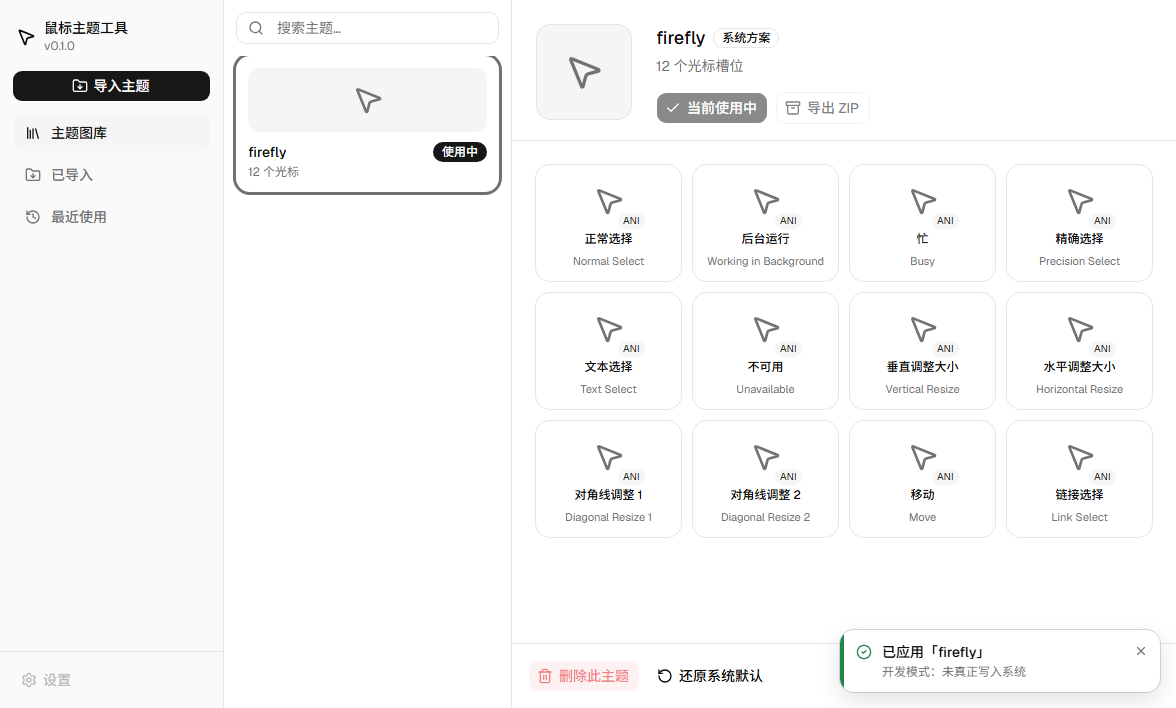
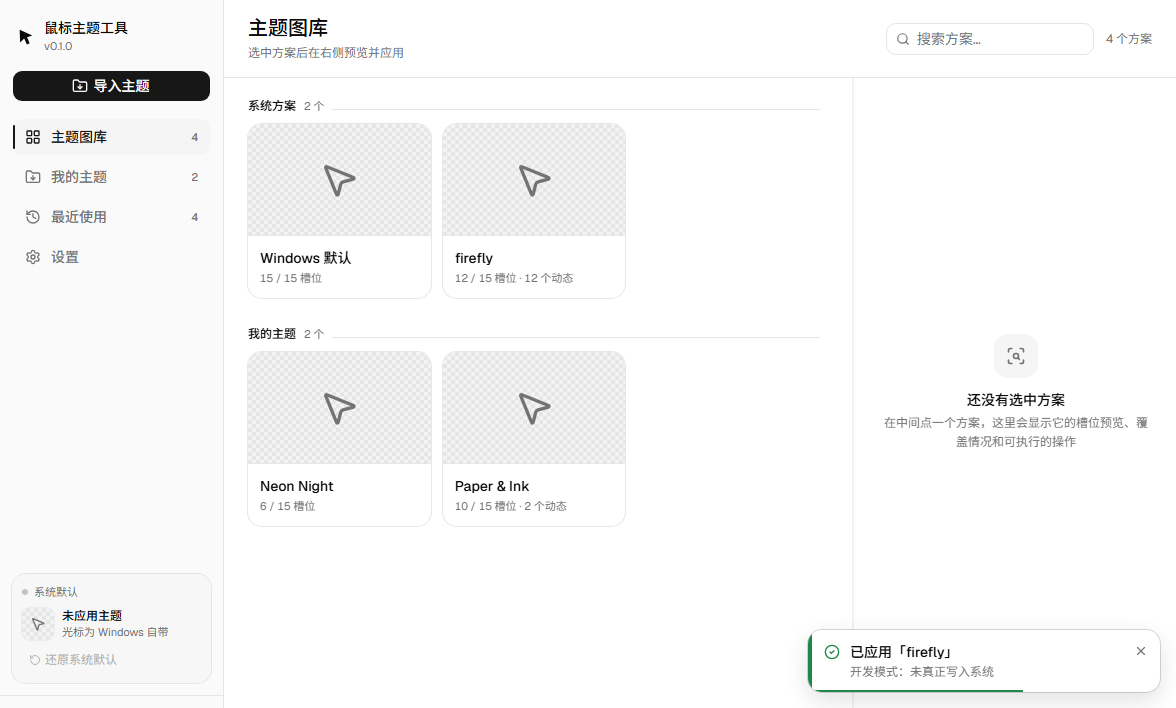
docs: 倒计时条文档同步——动效例外备案、验收计数与截图更新
- motion.md：§2 硬规则唯一例外（时长=超时属数据、缓动必须 linear）、§3 Toast 行、§5 不缩短阅读时间、§7 断言 28→33、§8 变更记录
- design-system.md：§2 动效节补例外指路，§6 变更记录 v1.9（视觉变更双登记，本次补上遗漏的一侧）
- agents.md：硬约束 10 补唯一例外，防后人把 linear 当违规改掉
- 启动与构建指南：motion_check 描述与计数同步
- 重拍 docs/screenshots/toast.png：旧图是无倒计时条的旧 Toast

diff --git a/docs/motion.md b/docs/motion.md
@@ -38,6 +38,11 @@
 
 **硬规则**：组件里只写 `duration-(--motion-*)` 和 `ease-standard` / `ease-exit`。禁止 `duration-200` 这类裸数字，也禁止 `transition-all`。
 
+**唯一例外：Toast 倒计时条**。它是剩余时间的**读数**，不是装饰性动效：
+- 时长 = 该条 toast 的超时（3.2–6s），由组件内联 `animation-duration` 注入 —— 是数据不是档位；
+- 缓动必须 `linear`：ease 会让"剩余多少"的读数失真（同样一格长度代表的秒数前后不一致）。
+实现见 `src/App.css` 的 `toast-countdown`，挂起同步见 `src/components/ui/toaster.tsx`。
+
 ---
 
 ## 3. 动画化的组件范围
@@ -46,7 +51,7 @@
 
 | 组件 | 进入 | 退出 | 状态切换 |
 |---|---|---|---|
-| **Toast** | 下方 8px 起、缩放 0.96→1、淡入，240ms，原点在右下 | 下沉 4px、缩到 0.98、淡出，160ms | 堆叠让位 180ms（FLIP）；关闭按钮悬停 120ms |
+| **Toast** | 下方 8px 起、缩放 0.96→1、淡入，240ms，原点在右下 | 下沉 4px、缩到 0.98、淡出，160ms | 堆叠让位 180ms（FLIP）；关闭按钮悬停 120ms；倒计时条随剩余寿命 linear 缩短，悬停/失焦与计时器同挂起（§2 例外） |
 | **AlertDialog 遮罩** | 淡入 180ms | 淡出 160ms | — |
 | **AlertDialog 弹窗** | 缩放 0.96→1 + 淡入，240ms，中心原点 | 缩回 0.96 + 淡出，160ms | — |
 | **Button** | — | — | 悬停/焦点 120ms；按下 1px 位移；禁用不参与 |
@@ -135,7 +140,7 @@ el.animate([{ transform: `translateY(${dy}px)` }, { transform: "translateY(0)" }
 | 焦点不能被延迟 | 焦点环走 120ms 档、颜色不透明；不做 `delay` |
 | 无眩晕风险 | 位移 ≤ 8px、无旋转、无视差、无自动循环播放（`animate-pulse` 在降级下只播一轮） |
 | 不阻断操作 | 浮层退场期间 `pointer-events: none`；动画不改变可点区域 |
-| 不缩短阅读时间 | Toast 超时仍是 3.2s / 4s / 5s / 6s，动画时长不含在判断里；悬停暂停由 base-ui 负责 |
+| 不缩短阅读时间 | Toast 超时仍是 3.2s / 4s / 5s / 6s，动画时长不含在判断里；悬停暂停由 base-ui 负责，倒计时条与计时器同挂起，不会"条先走完"逼人快读 |
 | 不用颜色单独表意 | 状态条 + 图标 + 文案三重表达，动效只是辅助 |
 
 ---
@@ -161,12 +166,13 @@ node scripts/dev_bg.mjs start && node scripts/motion_check.mjs; node scripts/dev
 
 必须和 dev server 写在同一条命令里 —— 跨命令的 dev server 会被回收。
 
-脚本逐帧采样，而不是单点截图，断言 28 项：
+脚本逐帧采样，而不是单点截图，断言 33 项：
 
 - Toast 入场/退场：是否真的在过渡、时长、中间态、位移、结束是否卸载；
+- Toast 倒计时条：时长是否等于该条超时、是否随时间缩短、悬停是否真冻结、移开是否继续；
 - Dialog 弹窗与遮罩：同上，且遮罩比弹窗快一档；
 - Toast 让位：是否触发 FLIP、时长 180ms；
-- `prefers-reduced-motion`：时长是否被压到近似 0、是否跳过 FLIP；
+- `prefers-reduced-motion`：时长是否被压到近似 0、是否跳过 FLIP、倒计时条是否不显示；
 - 控件：按钮 120ms、主题卡 180ms 且走 `box-shadow`；
 - 运行期无 JS 异常。
 
@@ -178,4 +184,5 @@ node scripts/dev_bg.mjs start && node scripts/motion_check.mjs; node scripts/dev
 
 | 日期 | 变更 |
 |---|---|
+| 2026-10-24 | Toast 倒计时条：贴卡片底边 scaleX 1→0（时长=超时、linear —— §2 唯一例外）；挂起与 base-ui 计时器同进退（data-expanded + 窗口焦点镜像）；`motion_check` 增至 33 项断言 |
 | 2026-10-21 | 建立。四档时长（fast/base/slow/exit）、两条曲线；Toast 与 Dialog 补齐进入/退出；Toast 堆叠 FLIP；`transition-all` 清零；新增 `motion_check.mjs`（28 项断言） |

diff --git a/agents.md b/agents.md
@@ -79,7 +79,7 @@
 7. 删改类命令必须先 `Uuid::parse_str` 校验——`theme_dir(id)` 是字符串拼接，传 `../` 能越出数据目录。
 8. 多来源必须部分成功：注册表读不到不能让用户主题一起消失，失败进 `warnings`。
 9. **不加新依赖**；Toast/浮层用 `@base-ui/react` 自封装，不引 sonner / radix。
-10. 动效只写 `duration-(--motion-*)` + `ease-standard/ease-exit`，禁裸数字时长、禁 `transition-all`。
+10. 动效只写 `duration-(--motion-*)` + `ease-standard/ease-exit`，禁裸数字时长、禁 `transition-all`。**唯一例外 Toast 倒计时条**：时长=toast timeout（内联注入）、缓动必须 `linear` —— 它是剩余时间的读数，改缓动=读数失真（详见 motion.md §2）。
 11. zustand selector **不能返回新对象**（`filter`/`map`/字面量）→ 无限重渲染白屏；派生数据用纯函数 + `useMemo`。
 12. 后台起 dev server 只用 `npm run dev:bg`，且**启动与验证写进同一条命令**；禁止 `npm run dev | head`（管道一关 EPIPE 直接杀死 vite）。
 13. 可滚动容器一律加 `scroll-thin`：6px、轨道透明、拇指**平时完全隐形**、指针进入容器才浮出（`::-webkit-scrollbar`）。**别用 `scrollbar-width: thin`**——Chromium 里它仍走经典样式（带箭头、常显），在 320px 面板里会被当成进度条；也别自绘轨道或改滚动手感。

diff --git a/docs/mouse-theme启动与构建指南.md b/docs/mouse-theme启动与构建指南.md
@@ -253,7 +253,7 @@ src-tauri\target\release\mousetool-theme.exe
 | `node scripts/design_check.mjs` | 按 Tab 走查键盘焦点、`aria` 属性、三栏结构，并存截图 | 不会 |
 | `node scripts/design_audit.mjs` | 静态扫描：间距/字号/图标是否出现阶梯外的值、有没有裸写时长或 `transition-all` | 不启动浏览器 |
 | `node scripts/ui_ratio.mjs` | 统计 JSX 元素构成：shadcn / 业务组件 / 原生标签 / 图标 的比例 | 不启动浏览器 |
-| `node scripts/motion_check.mjs` | 逐帧采样 Toast 与弹窗的进出场：时长、中间态、降级是否生效（28 项断言） | 不会 |
+| `node scripts/motion_check.mjs` | 逐帧采样 Toast 与弹窗的进出场：时长、中间态、倒计时条、降级是否生效（33 项断言） | 不会 |
 | `node scripts/recent_check.mjs` | 「最近使用」排序、应用后置顶、删除后的提示 | 会（mock，不写系统） |
 | `node scripts/ui_check.mjs` | 点第一个主题卡 + 点应用按钮，截图 | 会（mock，不写系统） |
 | `node scripts/nav_check.mjs` | 依次点三个导航项，输出三栏结构与截图 | 不会 |
